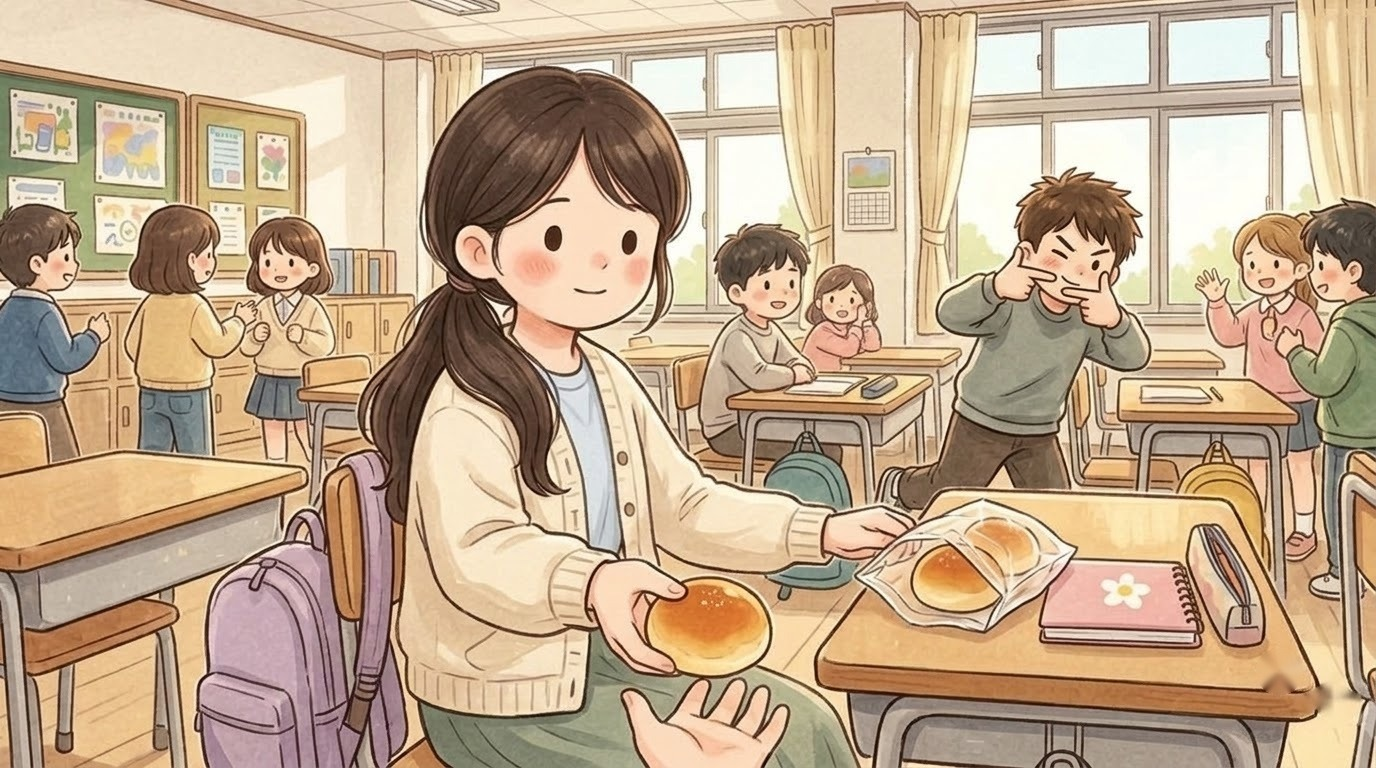
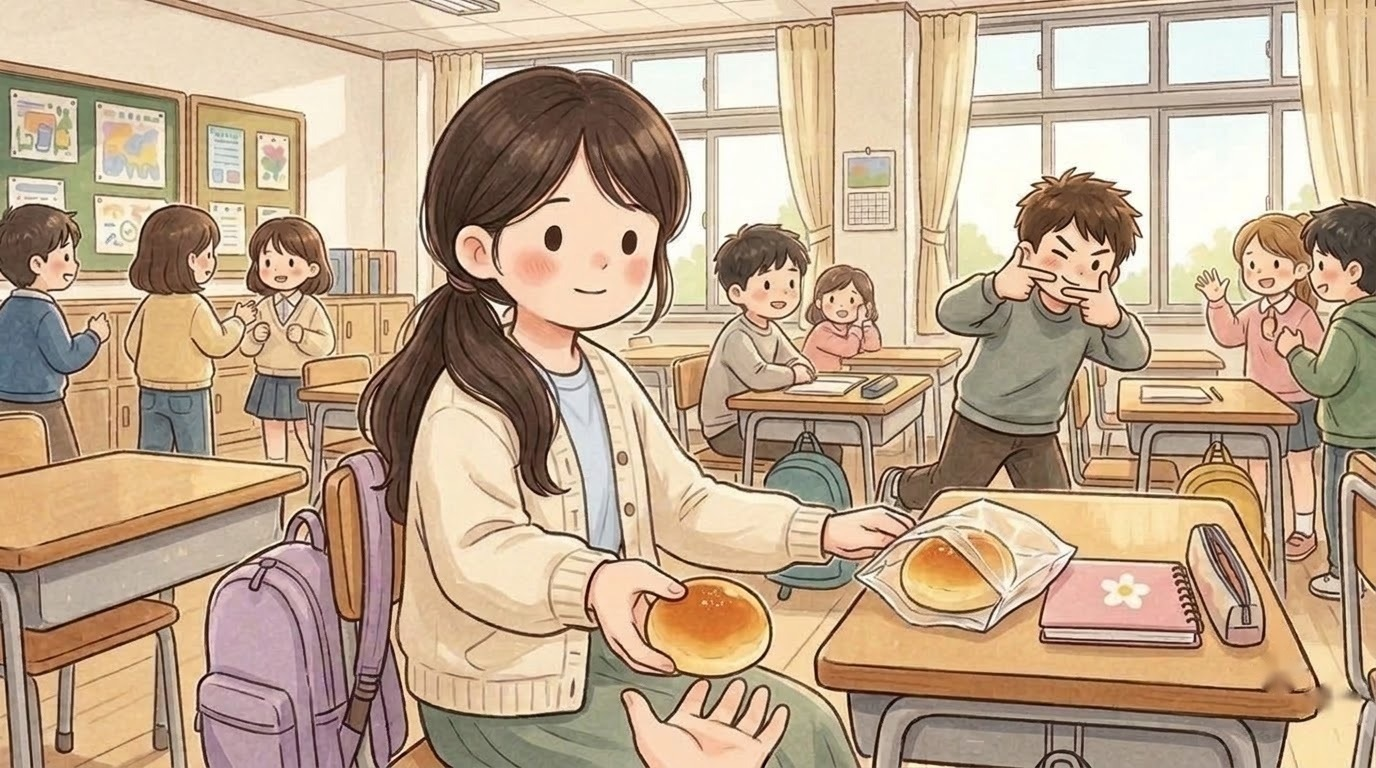
하은 2일차 빵 그림(haeun_01): 봉지 속 빵 2개 → 1개(하나 건네는 장면, 그림 세션 Flow·메인 비교)

Changed region(s): [[0.625, 0.6562, 0.7812, 0.8125]]

diff --git a/index.html b/index.html
@@ -119,14 +119,14 @@ body,button{word-break:keep-all;overflow-wrap:break-word}
 <div id="fader"></div>
 <script>
 // same address, newest version: if the page this phone has kept is older than the one online, fetch the new one and reopen
-const BUILD='1109095837';
+const BUILD='1109101253';
 try{fetch(location.pathname,{cache:'no-store'}).then(r=>r.text()).then(t=>{const m=t.match(/const BUILD='(\d+)'/);if(m&&m[1]!==BUILD&&sessionStorage.getItem('upd')!==m[1]){sessionStorage.setItem('upd',m[1]);fetch(location.pathname,{cache:'reload'}).then(()=>location.reload())}}).catch(()=>{})}catch(e){}
 </script>
-<script src="i18n.js?v=1109095837"></script>
-<script src="i18n_prologue_v2.js?v=1109095837"></script>
-<script src="day2/i18n_engine.js?v=1109095837"></script>
-<script src="day2/data.js?v=1109095837"></script>
-<script src="day3/data.js?v=1109095837"></script>
+<script src="i18n.js?v=1109101253"></script>
+<script src="i18n_prologue_v2.js?v=1109101253"></script>
+<script src="day2/i18n_engine.js?v=1109101253"></script>
+<script src="day2/data.js?v=1109101253"></script>
+<script src="day3/data.js?v=1109101253"></script>
 <script>
 // ---------- data ----------
 const MW=1672,MH=941,KID=180;
@@ -569,36 +569,36 @@ function pickHero(){const m=document.getElementById('modal'),c=document.getEleme
  c.innerHTML=`<h2>${tr('전학생 반장되기')}</h2><p>${tr('한국말이 아직 서툰 전학생,<br>반장 선거에 나가다.')}</p><p style="margin-top:14px">${tr('누구로 할까요?')}</p>${(()=>{const s=loadSave();return s&&s.day>=2&&s.mode===UI+'-'+LANG?`<p><button class="big" id="cont">${tr('{n}일차부터 이어 하기').replace('{n}',s.day)}</button></p>`:''})()}<div class="pick heroes"><button data-h="hero_f"><img src="faces/hero_f_smile.jpg" alt="여자 주인공">${heroName(1)}</button><button data-h="hero_m"><img src="faces/hero_m_smile.jpg" alt="남자 주인공">${heroName(0)}</button></div>`;
  m.classList.add('on');{const cb=document.getElementById('cont');if(cb)cb.onclick=()=>{const s=loadSave();HERO=s.hero;Object.assign(HEART,s.heart||{});(s.found||[]).forEach(k=>FOUND.add(k));HEART_D1={...HEART};chime();(typeof contGame==='function'?contGame(s):startDay(Math.min(s.day,Object.keys(window.D3||{}).length?3:2)))}}c.querySelectorAll('.pick button').forEach(b=>b.onclick=()=>{HERO=b.dataset.h;m.classList.remove('on');chime();bgm('day');load('home_am');say([['nar','','이사 온 다음 날 아침. 아직 풀지 못한 상자들이 쌓여 있다.'],['think','sad','(오늘부터 새 학교야. 여기 말도 아직 서툰데…….)'],['think','smile','({m}한테 인사하고 학교 가야지.)']],morning)})}
 </script>
-<script src="day2/engine.js?v=1109095837"></script>
-<script src="day2/ep_minho.js?v=1109095837"></script>
-<script src="day2/meet.js?v=1109095837"></script>
-<script src="day2/ep_sua.js?v=1109095837"></script>
-<script src="day2/ep_hangyeol.js?v=1109095837"></script>
-<script src="day2/ep_siwoo.js?v=1109095837"></script>
-<script src="day2/ep_haram.js?v=1109095837"></script>
-<script src="day2/ep_jiho.js?v=1109095837"></script>
-<script src="day2/ep_hyeeun.js?v=1109095837"></script>
-<script src="day2/ep_haneul.js?v=1109095837"></script>
-<script src="day2/ep_junho.js?v=1109095837"></script>
-<script src="day2/ep_yuna.js?v=1109095837"></script>
-<script src="day2/ep_yena.js?v=1109095837"></script>
-<script src="day2/ep_haeun.js?v=1109095837"></script>
-<script src="day2/ep_youngmin.js?v=1109095837"></script>
-<script src="day2/ep_seah.js?v=1109095837"></script>
-<script src="day2/ep_jihoon.js?v=1109095837"></script>
-<script src="words_ja_ru.js?v=1109095837"></script>
-<script src="day2/mybag.js?v=1109095837"></script>
-<script src="day2/wordpics.js?v=1109095837"></script>
-<script src="day2/spots.js?v=1109095837"></script>
-<script src="day2/textfit.js?v=1109095837"></script>
-<script src="day2/tester.js?v=1109095837"></script>
-<script src="day2/ux.js?v=1109095837"></script>
-<script src="day2/tapword.js?v=1109095837"></script>
-<script src="day2/review.js?v=1109095837"></script>
-<script src="day2/plane.js?v=1109095837"></script>
-<script src="day2/bubble.js?v=1109095837"></script>
-<script src="day2/ep_ending.js?v=1109095837"></script>
-<script src="day2/ending.js?v=1109095837"></script>
+<script src="day2/engine.js?v=1109101253"></script>
+<script src="day2/ep_minho.js?v=1109101253"></script>
+<script src="day2/meet.js?v=1109101253"></script>
+<script src="day2/ep_sua.js?v=1109101253"></script>
+<script src="day2/ep_hangyeol.js?v=1109101253"></script>
+<script src="day2/ep_siwoo.js?v=1109101253"></script>
+<script src="day2/ep_haram.js?v=1109101253"></script>
+<script src="day2/ep_jiho.js?v=1109101253"></script>
+<script src="day2/ep_hyeeun.js?v=1109101253"></script>
+<script src="day2/ep_haneul.js?v=1109101253"></script>
+<script src="day2/ep_junho.js?v=1109101253"></script>
+<script src="day2/ep_yuna.js?v=1109101253"></script>
+<script src="day2/ep_yena.js?v=1109101253"></script>
+<script src="day2/ep_haeun.js?v=1109101253"></script>
+<script src="day2/ep_youngmin.js?v=1109101253"></script>
+<script src="day2/ep_seah.js?v=1109101253"></script>
+<script src="day2/ep_jihoon.js?v=1109101253"></script>
+<script src="words_ja_ru.js?v=1109101253"></script>
+<script src="day2/mybag.js?v=1109101253"></script>
+<script src="day2/wordpics.js?v=1109101253"></script>
+<script src="day2/spots.js?v=1109101253"></script>
+<script src="day2/textfit.js?v=1109101253"></script>
+<script src="day2/tester.js?v=1109101253"></script>
+<script src="day2/ux.js?v=1109101253"></script>
+<script src="day2/tapword.js?v=1109101253"></script>
+<script src="day2/review.js?v=1109101253"></script>
+<script src="day2/plane.js?v=1109101253"></script>
+<script src="day2/bubble.js?v=1109101253"></script>
+<script src="day2/ep_ending.js?v=1109101253"></script>
+<script src="day2/ending.js?v=1109101253"></script>
 <script>
 // the goal shows big for a few seconds, then folds into a small pill (tap it to open it again)
 {const g=document.getElementById('goal');let t=null;const big=()=>{g.classList.remove('mini');clearTimeout(t);t=setTimeout(()=>g.classList.add('mini'),4000)};
